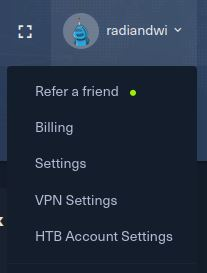
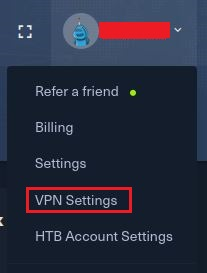
Update

Changed region(s): [[0.1159, 0.674, 0.6667, 0.7912], [0.4638, 0.0586, 0.8406, 0.1465], [0.6377, 0.3223, 0.6667, 0.3516]]

diff --git a/README.md b/README.md
@@ -4,3 +4,22 @@ HTB Academy adalah tempat pembelajaran keamanan siber bagi para pengguna untuk m
 ## Requirement
 - Silahkan membuat akun HTB terlebih dahulu di link https://account.hackthebox.com/register  
 - Gunakan sistem operasi kali linux atau varian linux lainnya untuk mempraktekkan materi di modul
+
+## VPN Setup
+- Setelah berhasil login ke HTB Academy, klik foto profil dan pilih VPN Settings
+
+![alt text](https://github.com/rahardian-dwi-saputra/htb-academy-walkthrough/blob/main/setup/setup%201.JPG)
+
+- Download VPN Conection File
+
+![alt text](https://github.com/rahardian-dwi-saputra/htb-academy-walkthrough/blob/main/setup/setup%202.JPG)
+
+- Lakukan koneksi ke VPN melalui terminal
+```sh
+sudo openvpn nama_file
+```
+
+![alt text](https://github.com/rahardian-dwi-saputra/htb-academy-walkthrough/blob/main/setup/setup%203.JPG)
+
+## Modul
+- [Linux Fundamentals](Linux%20fundamentals)
